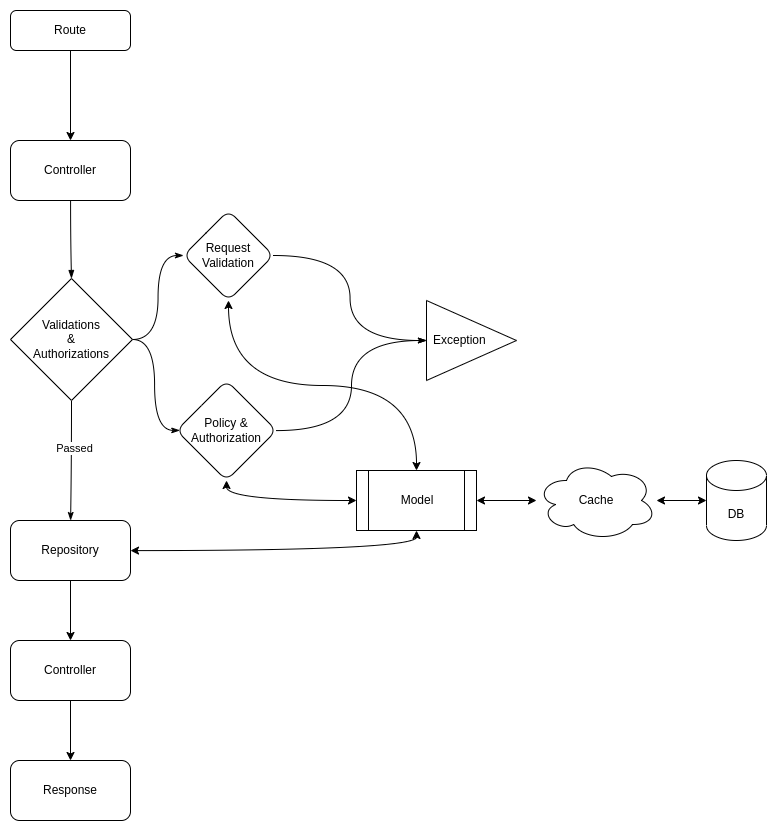
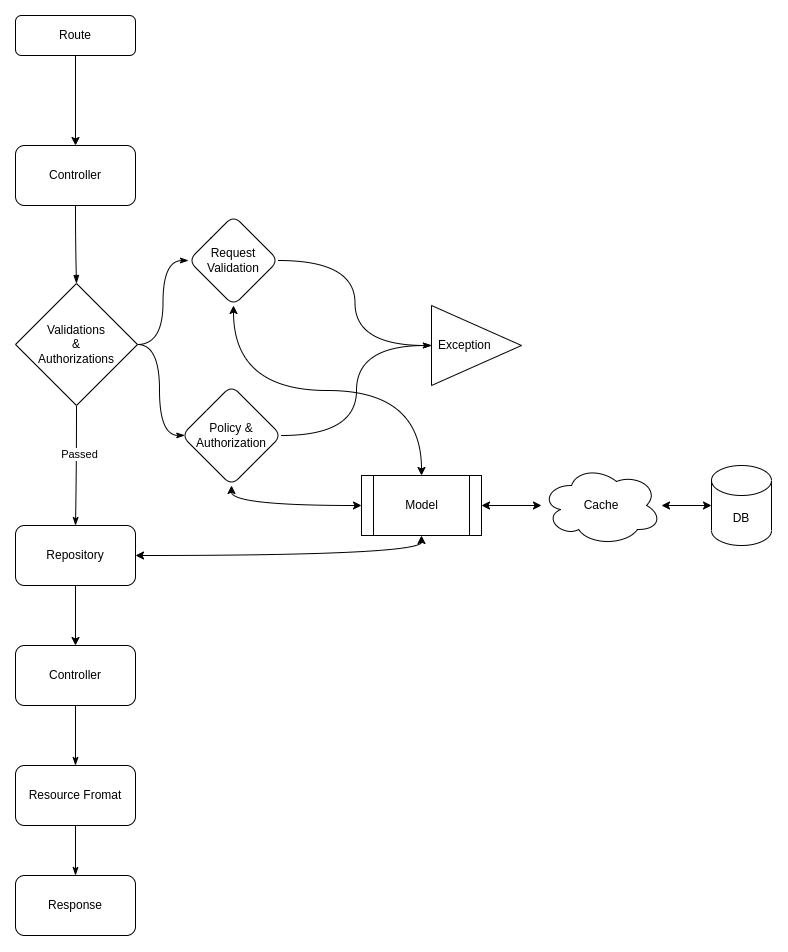
documentaion

diff --git a/docs/extra.css b/docs/extra.css
@@ -1,0 +1,11 @@
+.caption-text{
+    color: #2980B9;
+}
+
+.type-text {
+    color: teal;
+}
+
+h2{
+    margin-top:70px
+}

diff --git a/docs/index.md b/docs/index.md
@@ -1,17 +1,29 @@
-# Welcome to MkDocs
+# Introduction
+This package aim to provide auto file generation and base classes for the repository design pattern on Laravel.
 
-For full documentation visit [mkdocs.org](https://www.mkdocs.org).
+Repository pattern force you to have repository files in mediate between controllers and models, acting like a container where data access logic and business logic are stored.
 
-## Commands
+### What is wrong with the MVC pattern?
 
-* `mkdocs new [dir-name]` - Create a new project.
-* `mkdocs serve` - Start the live-reloading docs server.
-* `mkdocs build` - Build the documentation site.
-* `mkdocs -h` - Print help message and exit.
+MVC Violate the single responsibility principle in SOLID principles, where controller methods are responsible for the business logic and returning responses to the front-end users in the same time, making it impossible to re-use these methods or to independently testing the business logic in them.
 
-## Project layout
+### How repository design pattern works in this package?
 
-    mkdocs.yml    # The configuration file.
-    docs/
-        index.md  # The documentation homepage.
-        ...       # Other markdown pages, images and other files.
+After a request is being sent to the Laravel application, it follows these steps:
+
+1. The route catch the request and redirect it to its method in the controller
+2. The controller then validate the request with the correct [request file](https://laravel.com/docs/validation#creating-form-requests).
+3. If the validations passed, the controller then check the [policy](https://laravel.com/docs/authorization#creating-policies) authorization if available.
+4. If it passed the controller then call the repository to retrieve the required data.
+5. The repository implement the business logic and call the model to retrieve the required data from the database accordingly.
+6. The repository process that data (if needed) and return the final result to the controller
+7. The controller passes that data to the [resource file](https://laravel.com/docs/eloquent-resources) to format the data as needed.
+8. The controller finally return the response back to the user.
+
+![Repository Pattern Workflow](images/Repository Pattern.png)
+
+### Benefits of this design
+1. Centralization of the data access logic makes code easier to maintain
+2. Business and data access logic can be tested separately
+3. Reduces duplication of code
+4. A lower chance for making programming errors

diff --git a/docs/Base/Policy.md b/docs/Base/Policy.md
@@ -1,23 +1,21 @@
-# Resource
-Eloquent resources provide granular and robust control over the JSON serialization of your models and their relationships.
+# Policy
 
-whenever you create new repository files two resources files will be created, one for collections and one for an individual resource.
+Policy files are the holders for authorization in your application.
 
-They act exactly like documented in [Laravel Resource](https://laravel.com/docs/eloquent-resources) The only difference is that the individual resource has a `toCollection` method which allows you to specify individual model JSON structure inside a collection.
+They act exactly the same way as [Laravel policy](https://laravel.com/docs/authorization) but with automatic trigger base on the controller method name and without the need for registration.
 
-## toCollection
-
-By default, Laravel will read from the `toArray` method in the individual resource to structure each model JSON for both collection calls and individual model calls.
-
-Even though that may sound confusing, because the collection resource also has a `toArray` method, but for collections call Laravel will read from the individual resource first for each individual model then read from the collection resource to make the overall structure.
-
-to change that behavior, this package adds a `toCollection` method to the individual resource, which allows you to structure each model differently on a collections call.
-
-meaning that, if you have the two methods defined in the individual resource, it will act like this:
+For example, to validate a method called `documents` in the controller, all you need to do is to make another method called `documents` in the policy file.
 
 ```
-return new Resource(User::find($id)); // will read from toArray method in the individual resource
-
-return new ResourceCollection(User::all()); // will read from toCollection method in the individual resource then toArray method in the resource collection
+function policy(?User $user)
+{
+    // your authorization logic here.
+}
 ```
 
+!!! Note
+    Remember to add `?` before the User if you want to skip auth authorization. 
+
+We don't pass the model to policy methods as a parameter, instead you should make whatever query needed in your policy.
+
+Don't worry about query duplications, we already implemented a cache on the [model](Model.md) side.

diff --git a/docs/Base/Model.md b/docs/Base/Model.md
@@ -1,5 +1,62 @@
 # Model
 
+Models are the middleware between the application and the database, you should define all the relations, getter/setter attributes, and anything related to the database in there.
+
 ## Request Cache
 
-Request cache allow you to cache specific method results for the current request, it uses the **array** driver to cache the results  
+Request cache allow you to cache specific method results for the current request, it uses the **array** driver to cache the results per each request.
+
+you can specify which method result to cache by override the `$methodsToCache` static property.
+
+You can disable caching for the current model by setting the `$requestCacheEnabled` property to false.
+
+### Runtime cache manipulation
+
+You can disable\enable\clear the cache on real time for specific builder by calling these methods:
+
+```
+Model::DisableCache();
+Model::EnableCache();
+Model::ClearCache();
+```
+
+These methods are chainable, meaning that you can call them while building your query:
+```
+Model::DisableCache()->where('name', 'Mohammad')->get();
+```
+
+## Criteria Scopes
+
+Most of the time you want to search your query base on the front-end criteria, we have built a common used methods to filter/search/order by criteria and add them as a [query scopes](https://laravel.com/docs/9.x/eloquent#query-scopes).
+
+
+These methods are:
+```
+Model::filterByCriteria($criteria);
+Model::searchByCriteria($criteria);
+Model::orderByCriteria($criteria);
+```
+
+Only `fillables` are filterable/searchable by default, to override this behavior, define `$searchables` or `$filterable` properties in your model and fill it with the desired columns. 
+
+### Relation filter/search
+To filter\search base on a relation you can define the relation name as the key and their columns as the value:
+```
+    protected ?array $filterable = [
+        'roles' => [
+            'id',
+            'name',        
+        ]    
+    ];
+
+```
+
+### Runtime manipulation
+You can define what filterable/searchable at run time by calling these functions:
+
+```
+Model::setSearchables(['name'])
+Model::setFilterables(['name']);
+```
+
+Note that these methods are not query methods, meaning that you should call them on the model instance and not on the builder instance.

diff --git a/docs/Base/Resource.md b/docs/Base/Resource.md
@@ -1,5 +1,23 @@
-# Model
+# Resource
+Eloquent resources provide granular and robust control over the JSON serialization of your models and their relationships.
 
-## Request Cache
+whenever you create new repository files two resources files will be created, one for collections and one for an individual resource.
 
-Request cache allow you to cache specific method results for the current request, it uses the **array** driver to cache the results  
+They act exactly like documented in [Laravel Resource](https://laravel.com/docs/eloquent-resources) The only difference is that the individual resource has a `toCollection` method which allows you to specify individual model JSON structure inside a collection.
+
+## toCollection
+
+By default, Laravel will read from the `toArray` method in the individual resource to structure each model JSON for both collection calls and individual model calls.
+
+Even though that may sound confusing, because the collection resource also has a `toArray` method, but for collections call Laravel will read from the individual resource first for each individual model then read from the collection resource to make the overall structure.
+
+to change that behavior, this package adds a `toCollection` method to the individual resource, which allows you to structure each model differently on a collections call.
+
+meaning that, if you have the two methods defined in the individual resource, it will act like this:
+
+```
+return new Resource(User::find($id)); // will read from toArray method in the individual resource
+
+return new ResourceCollection(User::all()); // will read from toCollection method in the individual resource then toArray method in the resource collection
+```
+

diff --git a/docs/Base/Controller.md b/docs/Base/Controller.md
@@ -1,5 +1,37 @@
-# Model
+# Controller
 
-## Request Cache
+The main responsibility of the controller is to receive the request and return a response, the controller should NEVER connect to the model directly or make DB queries.
 
-Request cache allow you to cache specific method results for the current request, it uses the **array** driver to cache the results  
+Controller can return either web responses, API responses or both depending on your configuration on the repository.php config file, by default it will return `both` responses, meaning that it will depend on the `Content-type` attached in the request header to decide the response type.
+
+Some notes about controllers:
+1. Never call the model directly from the controller.
+2. Controller methods should always return responses as a type.
+3. It is ok to inject multiple repositories into one controller, and call multiple repositories in the same method.
+
+## Web
+You should define the following properties to allow web CRUD responses:
+```
+    // Can be either a route name or a URL.
+    public string $routeIndex = '';
+    public string $createRoute = '';
+
+    public string $viewIndex = '';
+    public string $viewCreate = '';
+    public string $viewEdit = '';
+    public string $viewShow = '';
+
+```
+
+They are self-explanatory.
+
+## API
+ 
+You need to define the following properties to allow API CRUD responses:
+
+```
+    public ?string $resourceClass;
+    public ?string $collectionClass;
+```
+
+Feel free to go through the Controller properties, they are self-explanatory.

diff --git a/docs/Usage.md b/docs/Usage.md
@@ -1,17 +1,33 @@
-# Welcome to MkDocs
+# Usage
 
-For full documentation visit [mkdocs.org](https://www.mkdocs.org).
+### Generate files
+To generate new repository files use this command:
 
-## Commands
+```
+php artisan generate:repository Tests/Test
+```
 
-* `mkdocs new [dir-name]` - Create a new project.
-* `mkdocs serve` - Start the live-reloading docs server.
-* `mkdocs build` - Build the documentation site.
-* `mkdocs -h` - Print help message and exit.
+This will generate the following files:
+1. Test #The Model file
+2. TestController
+3. TestRepository
+4. TestRequest
+5. TestResource
+6. TestPolicy
 
-## Project layout
+If you are using another architecture than the one Laravel uses (let us say you are using modular architecture) you can pass the base path to your files like this:
+```
+php artisan generate:repository Test --base=app/Modules
+```
 
-    mkdocs.yml    # The configuration file.
-    docs/
-        index.md  # The documentation homepage.
-        ...       # Other markdown pages, images and other files.
+This will generate the files inside the app/Modules directory and will set the namespace accordingly. 
+
+!!! note
+
+    See the config file for more information about paths.
+
+### Remove files
+To remove repository files use the following command:
+```
+php artisan ungenerate:repository Tests/Test
+```

diff --git a/docs/Base/AbstractRepository.md b/docs/Base/AbstractRepository.md
@@ -1,5 +1,16 @@
-# Model
+# Abstract Repository
 
-## Request Cache
+Repository is the intermediary between the model layers and the controller, it holds all the business logic and includes all the subsequent actions of an event, such as sending mail/notification, communicating to services to notify third parties, or/and communicating the model for database action.
 
-Request cache allow you to cache specific method results for the current request, it uses the **array** driver to cache the results  
+## Scopes
+
+The Abstract repository contains pre-defined methods that are called from the controller, If you have a case where you want to use one of these pre-defined methods but you want to include a query call to it you can add that via scopes:
+
+```
+    public function customMethod()
+    {
+        return $this->scope(fn($builder) => $builder->groupBy('name'))->paginate();    
+    }
+```
+
+Feel free to go through the Abstract Repository methods and properties, they are self-explanatory.

diff --git a/docs/Installation.md b/docs/Installation.md
@@ -1,17 +1,20 @@
-# Welcome to MkDocs
+#Installation
 
-For full documentation visit [mkdocs.org](https://www.mkdocs.org).
+Via composer:
+```composer
+composer require shamaseen/laravel-repositories
+```
 
-## Commands
+Then publish the repository config
+```
+php artisan vendor:publish --tag=repository-stubs
+```
 
-* `mkdocs new [dir-name]` - Create a new project.
-* `mkdocs serve` - Start the live-reloading docs server.
-* `mkdocs build` - Build the documentation site.
-* `mkdocs -h` - Print help message and exit.
+**Optional:** to publish the stubs files
+```
+php artisan vendor:publish --tag=repository-stubs --force
+```
 
-## Project layout
+!!! note "  Forcing the stub files"
 
-    mkdocs.yml    # The configuration file.
-    docs/
-        index.md  # The documentation homepage.
-        ...       # Other markdown pages, images and other files.
+    Unless you have made your own changes on the stub files, you should always force the publish

diff --git a/docs/Base/Request.md b/docs/Base/Request.md
@@ -1,5 +1,16 @@
-# Model
+# Request Validations
+Request files are used to hold the validation logic for requests. we use a Request file for each Controller.
 
-## Request Cache
+## Controller Method Name Validation
 
-Request cache allow you to cache specific method results for the current request, it uses the **array** driver to cache the results  
+To validate a request for a specific controller method you can create a method in the request file that has the same controller method name + Rules.
+
+For example, when index method in the controller is called a method called indexRules will be triggered here if it is exists.
+
+## HTTP Method Validations
+
+to validate base on the HTTP method you can follow this syntax `{HTTP Method}MethodRules`, these methods will be triggered automatically when injected in a controller. 
+
+
+!!! Note
+    all validation methods **MUST** return an array.
